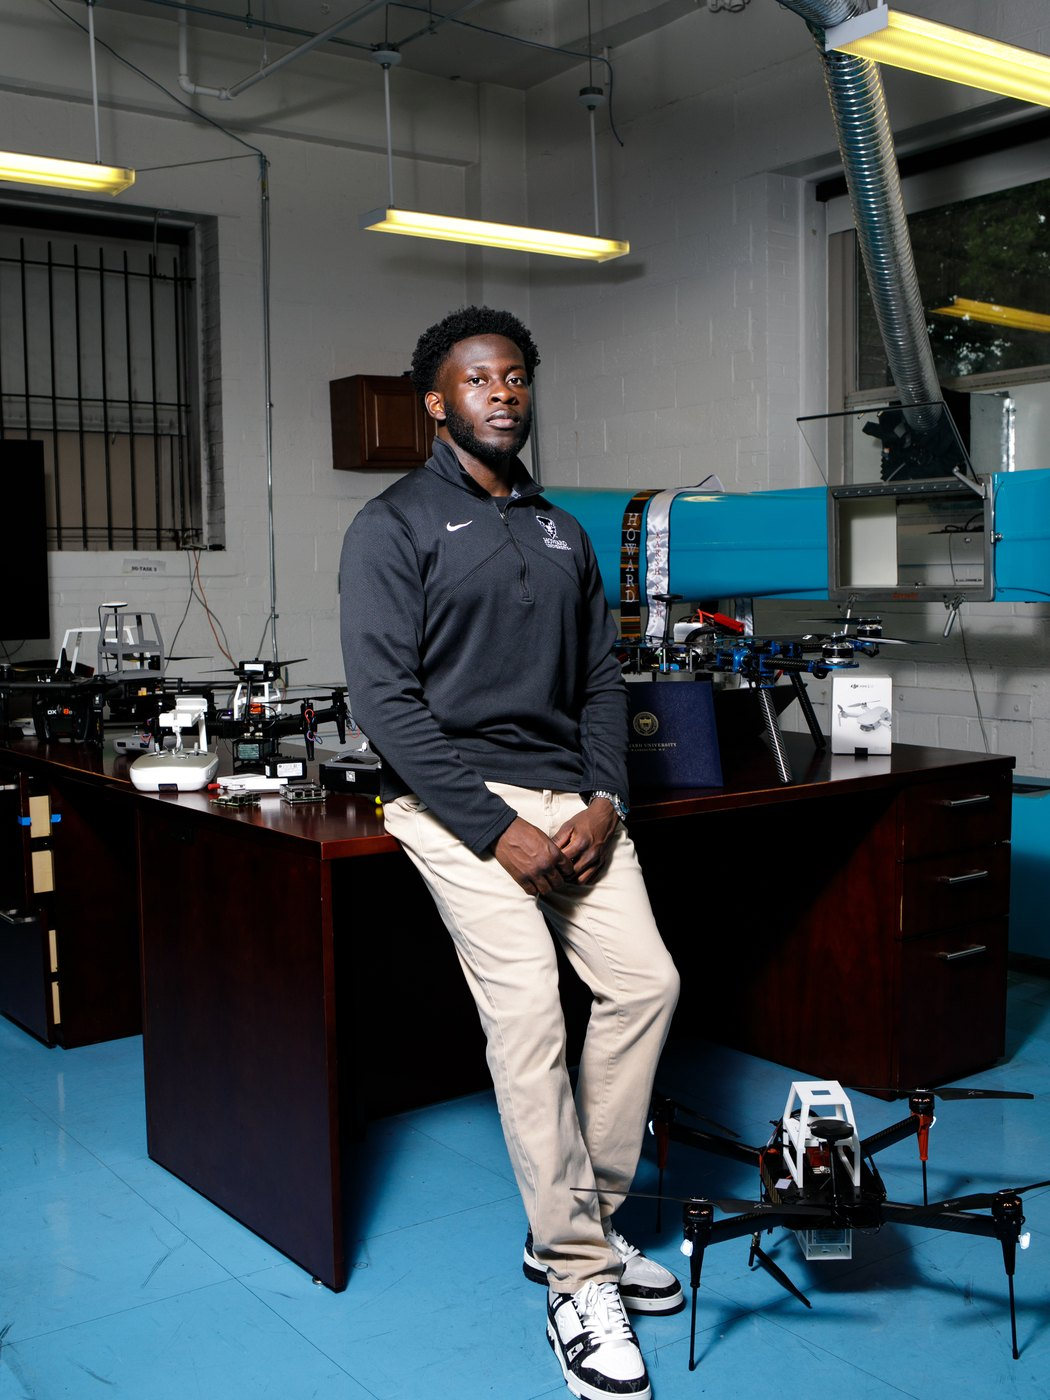
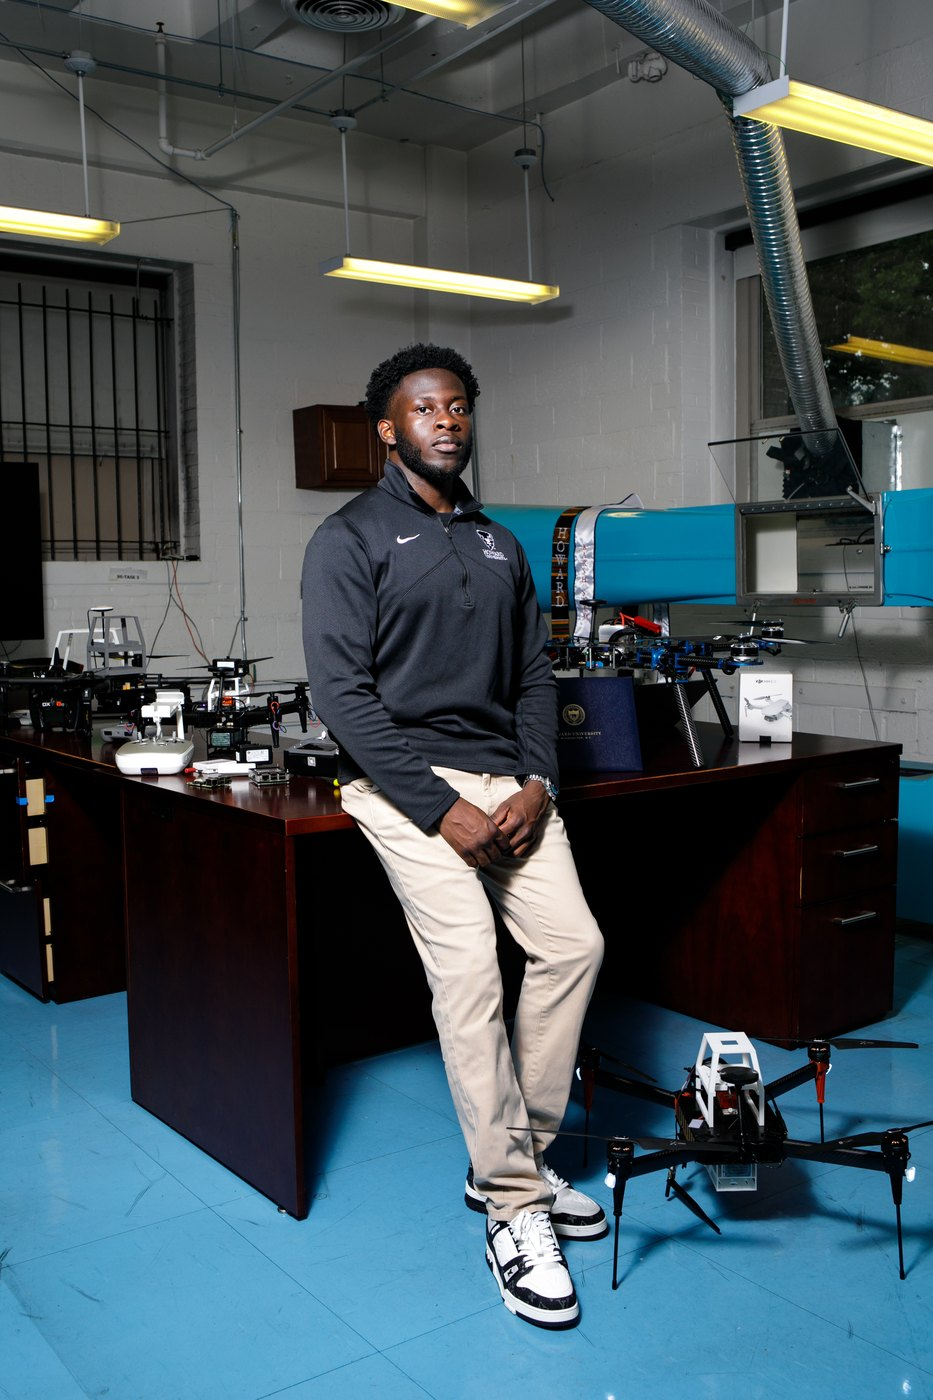
edits

diff --git a/assets/style.css b/assets/style.css
@@ -339,7 +339,10 @@ footer .foot-links { display: flex; gap: 20px; margin-top: 12px; font-family: va
   display: grid;
   /* Closer to even than before: the photo column was narrow enough that a
      landscape shot had to be cropped hard to fill it. */
-  grid-template-columns: minmax(0, 1.05fr) minmax(0, 1fr);
+  /* The photo column gets the larger share now. The text beside it is two
+     paragraphs, not the whole hero, so it does not need the width — and the
+     photos were rendering smaller than they had to. */
+  grid-template-columns: minmax(0, 0.92fr) minmax(0, 1.08fr);
   gap: 40px;
   /* Stretch, not centre. Centring left the photo floating with dead space
      above and below it, because its height was fixed while the text column
